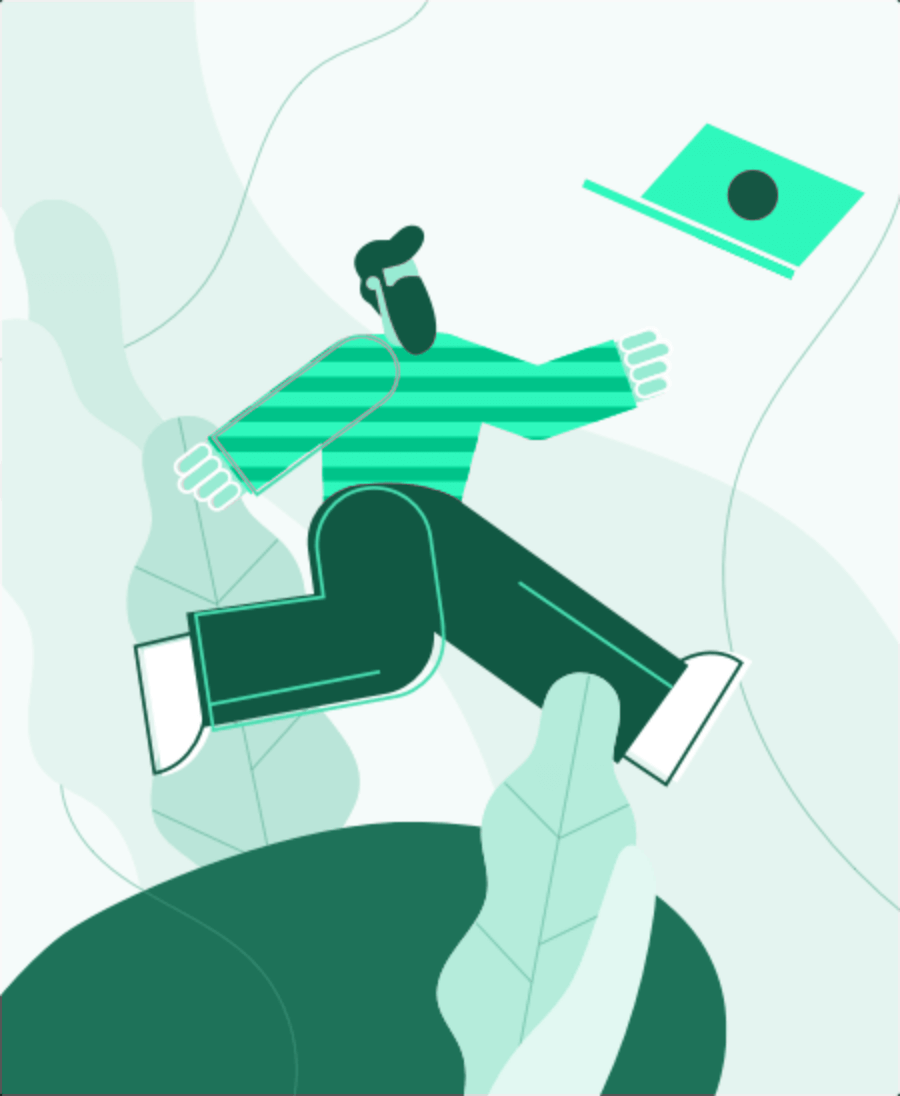
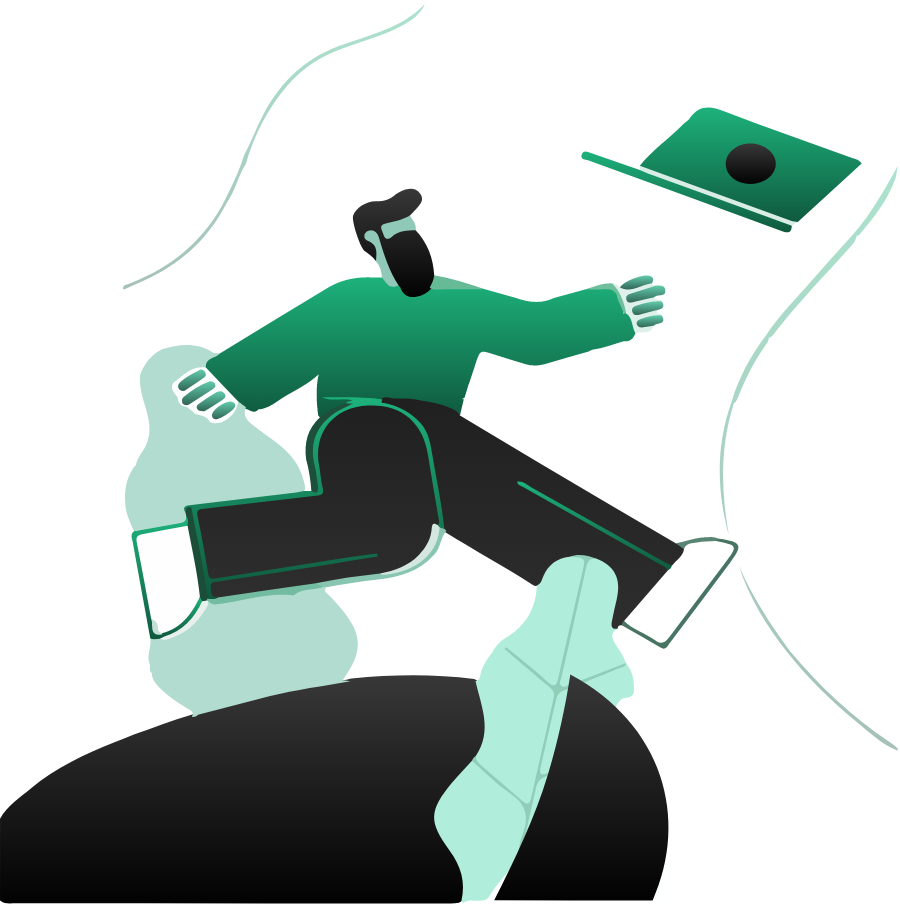
images change

diff --git a/src/screens/Home.js b/src/screens/Home.js
@@ -4,9 +4,9 @@ import { ClientsSection } from "../components/ClientsSection";
 import { ServicesSection } from "../components/ServicesSection";
 import { NewsletterSection } from "../components/NewsletterSection";
 import { BlogSection } from "../components/BlogSection";
-import services from "../assets/services.svg";
-import products from "../assets/products.svg";
-import customizations from "../assets/customizations.svg";
+import homebanner1 from "../assets/homebanner1.png";
+import homebanner2 from "../assets/homebanner2.png";
+import homebanner3 from "../assets/homebanner3.png";
 import WorkSection from "../components/WorkSection";
 import { StatsSection } from "../components/StatsSection";
 import { TestimonialsSection } from "../components/TestimonialsSection";
@@ -37,7 +37,7 @@ export default function Home({ setLightHeader }) {
        ad? Lorem, ipsum dolor sit amet consectetur adipisicing elit.
        Dolore, culpa est? Quos iusto dolore culpa, veritatis quas minus
        quibusdam ad?"
-          imgs={[services, products, customizations]}
+          imgs={[homebanner1, homebanner2, homebanner3]}
           buttons={true}
           light={true}
           styleColor={{ color: "white" }}
